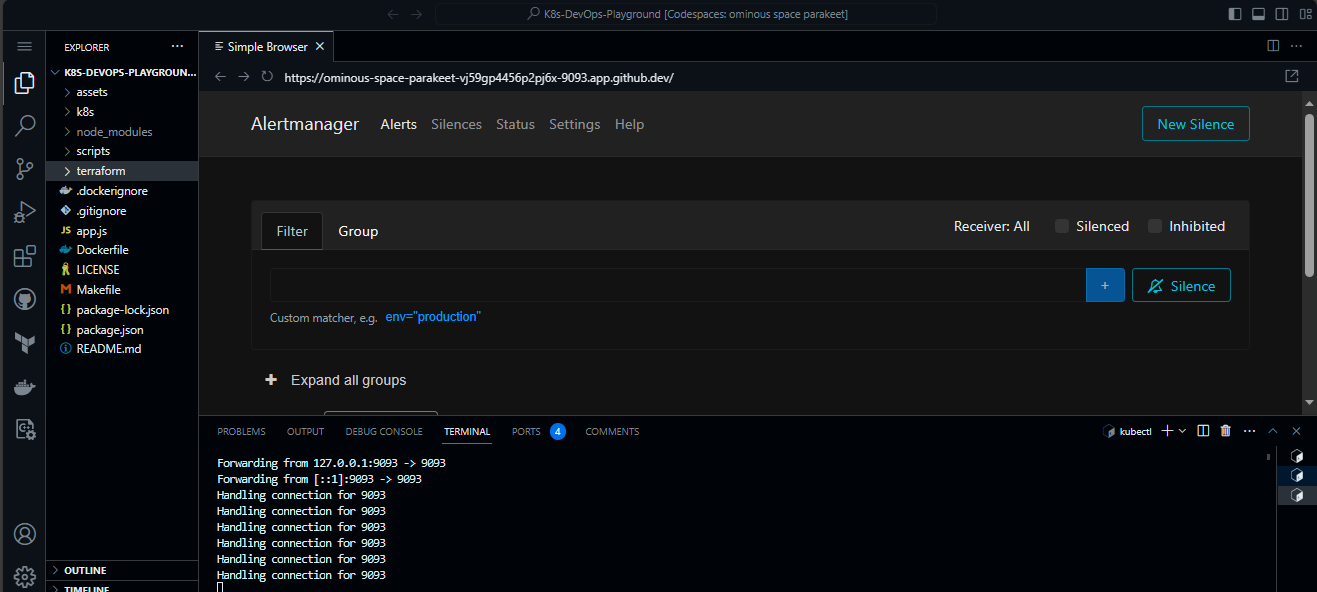
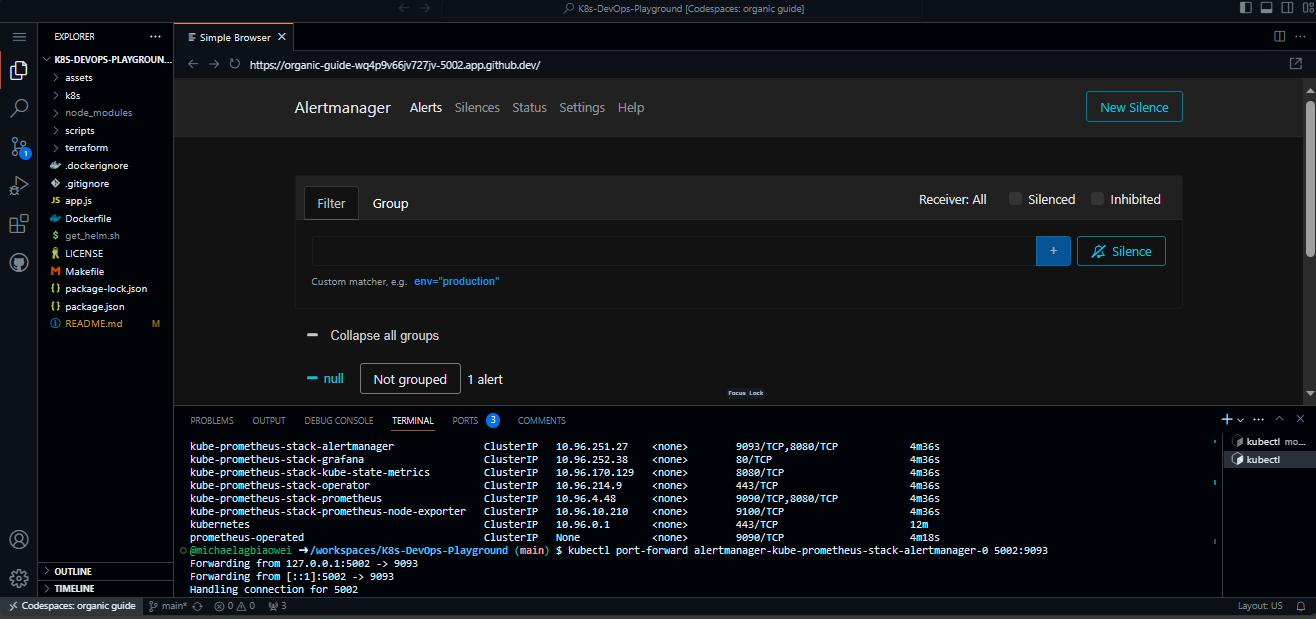
updated

diff --git a/README.md b/README.md
@@ -9,6 +9,7 @@
 This project involves setting up a Kubernetes cluster using Kind, a local deployment script, and deploying a Node.js app. It also includes creating a Docker image for a simple "Hello World" Express app, storing the kubeconfig securely, and writing [kubectl terraform provider](https://registry.terraform.io/providers/gavinbunney/kubectl/latest/docs) script to deploy the app to the Kind cluster. As a bonus, it sets up monitoring using the [kube-prometheus stack](https://github.com/prometheus-community/helm-charts/blob/main/charts/kube-prometheus-stack/README.md) stack with [terraform helm provider](https://registry.terraform.io/providers/hashicorp/helm/latest/docs).
 
 **Prerequisites**
+
 - Linux server (x86_64)
 - go (v1.16+)
 
@@ -18,8 +19,8 @@ This project involves setting up a Kubernetes cluster using Kind, a local deploy
     |----k8s
     |      |----deployment.yml
     |      |----service.yml
-    |     
-    |----scripts  
+    |
+    |----scripts
     |      |----docker-engin.sh
     |      |----docker-upload.sh
     |      |----helm.sh
@@ -65,15 +66,14 @@ Run `make install_all` form the root of the project to install the necessary dep
 Standalone:
 
     $ node install express
-    $ node app.py 
+    $ node app.py
 
 Run in Docker:
 
-Replce the placeholders with your desired values
+Replce the placeholders with desired values
 
     $ docker build -t [IMAGE_NAME] .
     $ docker run -p [PORT]:3000 [IMAGE_NAME]
-
 
 **Access Website**
 
@@ -81,8 +81,7 @@ Browser: `localhost:[PORT]`
 
 Terminal: `curl localhost:[PORT]`
 
-
-Push to [docker hub](https://hub.docker.com/): 
+Push to [docker hub](https://hub.docker.com/):
 
 Edit the dockerpath and user variables in the `scripts/docker-upload.sh` file
 
@@ -96,7 +95,7 @@ Edit the dockerpath and user variables in the `scripts/docker-upload.sh` file
 
 Change the port property to your desired port in the `k8s/app/service.yml` file
 
-      ports: 
+      ports:
         - name: app-deployment
         protocol: TCP
         port: 5000 # Change to desired  port
@@ -124,12 +123,11 @@ Here is an example of how a reverse proxy works:
                     |           |           |
                     +------------+----------+
 
-
 The reverse proxy listens on a single port (e.g., port 5000) and forwards requests to different target servers based on the rules that it is configured with. In this example, the reverse proxy might be configured to forward requests to different target servers based on the URL path.
 
 Reverse proxies are often used to improve the performance and scalability of websites and web applications. They can also be used to improve security by hiding the target servers from the internet.
 
-***Deploying with terraform***
+**_Deploying with terraform_**
 
 Run the following commands from both `terraform/app` and `terraform/monitoring` directories to deploy the Node.js and kube-prometheus stacks into the kubernetes kind cluster
 
@@ -163,30 +161,22 @@ Open a browser and go to: http://localhost:5000/ to see the Node.js UI.
 
 To access Prometheus:
 
-    $ kubectl port-forward svc/kube-prometheus-stack-prometheus 9090:9090 --namespace default
+    $ kubectl port-forward svc/kube-prometheus-stack-prometheus 5001:9090 --namespace default
 
-Open a browser and go to: http://localhost:9090/ to see the Prometheus UI.
-
-**Accessing Grafana**
-
-To access Grafana:
-
-    $ kubectl port-forward svc/kube-prometheus-stack-grafana 3000:80 --namespace default
-
-Open a browser and go to: http://localhost:3000/ to see the Grafana UI.
+Open a browser and go to: http://localhost:5001/ to see the Prometheus UI.
 
 **Accessing Alertmanager**
 
 Finally, to access Alertmanager, use this command:
 
-    $ kubectl port-forward svc/kube-prometheus-stack-alertmanager 9093:9093 --namespace default
-Open a browser and go to: http://localhost:9093/ to see the Alertmanager UI.
+    $ kubectl port-forward svc/kube-prometheus-stack-alertmanager 5002:9093 --namespace default
 
+Open a browser and go to: http://localhost:5002/ to see the Alertmanager UI.
 
+**Accessing Grafana**
 
+To access Grafana:
 
+    $ kubectl port-forward svc/kube-prometheus-stack-grafana 5003:80 --namespace default
 
- 
-
-
-    
+Open a browser and go to: http://localhost:5003/ to see the Grafana UI.
